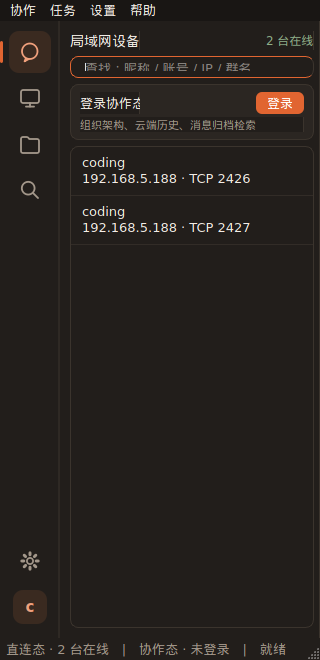
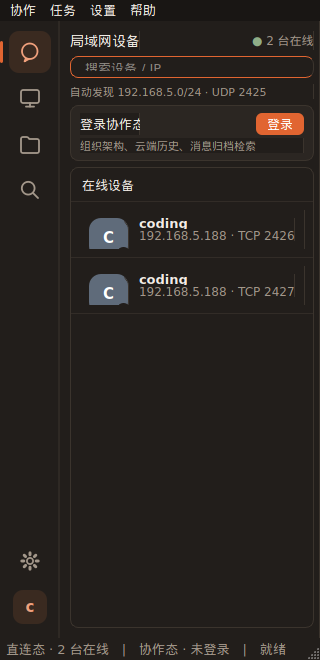
ui: align direct device list with desktop-direct prototype

diff --git a/client/app/main_window.cpp b/client/app/main_window.cpp
@@ -33,6 +33,7 @@
 #include <QLabel>
 #include <QMenuBar>
 #include <QMenu>
+#include <QNetworkInterface>
 
 #include "file_assistant.hpp"
 #include "emoji_pack_dialog.hpp"
@@ -914,9 +915,29 @@ void MainWindow::build_ui() {
   side_head->addWidget(new_chat_btn_);
 
   search_box_ = new QLineEdit(side);
-  search_box_->setPlaceholderText(
-      QStringLiteral("查找：昵称 / 账号 / IP / 群名"));
+  search_box_->setPlaceholderText(QStringLiteral("搜索设备 / IP"));
   search_box_->setClearButtonEnabled(true);
+
+  // 发现口径注脚（原型 side-head：自动发现本网段 x.x.x.0/24 · UDP 2425）：
+  // 子网按本机首个非环回 IPv4 推 /24；取不到地址时退「本网段」不编数。
+  {
+    QString subnet = QStringLiteral("本网段");
+    for (const QNetworkInterface& ni : QNetworkInterface::allInterfaces()) {
+      if (ni.flags() & QNetworkInterface::IsLoopBack) continue;
+      for (const QNetworkAddressEntry& e : ni.addressEntries()) {
+        const QHostAddress a = e.ip();
+        if (a.protocol() != QAbstractSocket::IPv4Protocol) continue;
+        const quint32 v = a.toIPv4Address();
+        subnet = QHostAddress(v & 0xFFFFFF00u).toString() + QStringLiteral("/24");
+        break;
+      }
+      if (subnet != QStringLiteral("本网段")) break;
+    }
+    disc_hint_ = new QLabel(
+        QStringLiteral("自动发现 %1 · UDP %2")
+            .arg(subnet, QString::number(kDiscoveryPort)),
+        side);
+  }
 
   device_list_ = new QListWidget(side);
   device_list_->setObjectName(QStringLiteral("device_list"));
@@ -954,6 +975,7 @@ void MainWindow::build_ui() {
 
   side_layout->addLayout(side_head);
   side_layout->addWidget(search_box_);
+  side_layout->addWidget(disc_hint_);
   side_layout->addWidget(collab_promo_);
   side_layout->addWidget(device_list_, 1);
   side_layout->insertWidget(0, brand_row_);
@@ -4364,8 +4386,9 @@ void MainWindow::update_side_head() {
   if (search_box_) {
     search_box_->setPlaceholderText(
         collab ? QStringLiteral("搜索消息 / 联系人 / 群聊")
-               : QStringLiteral("查找：昵称 / 账号 / IP / 群名"));
+               : QStringLiteral("搜索设备 / IP"));
   }
+  if (disc_hint_) disc_hint_->setVisible(!collab);
   if (device_count_) device_count_->setVisible(!collab);
   if (collab_promo_) collab_promo_->setVisible(!collab);
   if (new_chat_btn_) new_chat_btn_->setVisible(collab);
@@ -4389,7 +4412,24 @@ void MainWindow::refresh_devices() {
   device_list_->blockSignals(true);
   device_list_->clear();
   const auto peers = direct_engine_.peers();
-  for (const Peer& p : peers) {
+  // 原型直连列表（desktop-direct.html）：「在线设备」一组会话行（头像/在
+  // 线点/姓名·设备/时间/末条预览/未读胶囊）。离线对端由发现服务超时即摘，
+  // 无离线留存表——「离线设备」分区不渲染（台账近似项）。
+  if (!peers.isEmpty()) {
+    auto* header = new QListWidgetItem(QStringLiteral("在线设备"));
+    header->setFlags(Qt::NoItemFlags);
+    device_list_->addItem(header);
+  }
+  QList<QPair<qint64, const Peer*>> order;
+  for (const Peer& p : peers) order.push_back({fav_last_ms_(QString::fromStdString(p.device_id)), &p});
+  std::sort(order.begin(), order.end(),
+            [](const QPair<qint64, const Peer*>& a,
+               const QPair<qint64, const Peer*>& b) {
+              if (a.first != b.first) return a.first > b.first;
+              return a.second->name < b.second->name;
+            });
+  for (const auto& kv : order) {
+    const Peer& p = *kv.second;
     auto* item = new QListWidgetItem(device_list_);
     const QString id = QString::fromStdString(p.device_id);
     const QString name =
@@ -4401,28 +4441,47 @@ void MainWindow::refresh_devices() {
             ? QStringLiteral("飞秋 · UDP %1").arg(p.address.toString())
             : QStringLiteral("%1 · TCP %2")
                   .arg(p.address.toString(), QString::number(p.tcp_port));
-    // T4.2：对端登录账号入列表行（仅作显示；空=未登录）
-    const QString acct = p.account.empty()
-                             ? QString()
-                             : QStringLiteral(" · 协作账号 %1")
-                                   .arg(QString::fromStdString(p.account));
-    // 未读角标（原型行 n-count 的文本位；行级富文本委托另批）
-    const int unread = unread_counts_.value(id);
-    // 「盯」已读提醒触发的会话高亮（todo「盯」单）：◉ 前缀复用未读
-    // 角标位（同一行渲染路径；打开该会话即清）
-    const QString watch_hi =
-        watch_reminded_peers_.contains(id) ? QStringLiteral("◉ ") : QString();
-    item->setText(
-        watch_hi +
-        (unread > 0 ? QStringLiteral("(%1) ").arg(unread) : QString()) +
-        QStringLiteral("%1\n%2%3").arg(name, meta, acct));
+    // T4.2：对端协作账号（仅作显示；空=未登录）——原型行「人名 · 设备名」，
+    // 应用侧账号 id 即人名位
+    const QString account = QString::fromStdString(p.account);
+    const QString display =
+        account.isEmpty() ? name
+                          : QStringLiteral("%1 · %2").arg(account, name);
+    // 末条预览（原型 .r-sub）：本地库最近一条（撤回如实标）；文件传输
+    // 不落库，无历史走元信息行兜底（IP · 口）
+    QString preview;
+    const auto hist = direct_engine_.history(id, 1);
+    if (!hist.isEmpty()) {
+      preview = hist.last().recalled
+                    ? QStringLiteral("撤回了一条消息")
+                    : QString::fromStdString(hist.last().text);
+    } else {
+      preview = meta;
+    }
+    // 「盯」已读提醒高亮（原文本行 ◉ 前缀位；打开该会话即清）
+    const QString shown =
+        (watch_reminded_peers_.contains(id) ? QStringLiteral("◉ ")
+                                            : QString()) +
+        display;
+    // 列表内对端都在发现超时窗内＝在线（presence=1）；头像首字取人名位
+    QWidget* row = make_session_row(
+        tk(), account.isEmpty() ? name : account, 1, shown,
+        fmt_last_contact(fav_last_ms_(id)), preview,
+        unread_counts_.value(id));
+    item->setSizeHint(row->sizeHint());
+    device_list_->setItemWidget(item, row);
+    // 元信息（IP/端口/协作账号）退悬浮——行面让位原型会话行
+    item->setToolTip(QStringLiteral("%1\n%2%3").arg(
+        display, meta,
+        account.isEmpty()
+            ? QString()
+            : QStringLiteral("\n协作账号 %1").arg(account)));
     item->setData(Qt::UserRole, id);
     item->setData(Qt::UserRole + 1, QStringLiteral("direct"));
     // 需求批⑨查找：可检索字段＝昵称/设备 id/IP/协作账号（\n 分行，整行比对
     // ＝精确、子串＝模糊，两态都能命中）
     item->setData(Qt::UserRole + 6,
-                  QStringList{name, id, p.address.toString(),
-                             QString::fromStdString(p.account)}
+                  QStringList{name, id, p.address.toString(), account}
                       .join(QLatin1Char('\n')));
   }
 
@@ -4570,9 +4629,13 @@ void MainWindow::refresh_devices() {
     }
   }
   device_list_->blockSignals(false);
-  device_count_->setText(peers.isEmpty()
-                             ? QStringLiteral("未发现设备")
-                             : QStringLiteral("%1 台在线").arg(peers.size()));
+  // 原型 device-count：success 绿点＋muted 计数；空表如实「未发现设备」
+  device_count_->setText(
+      peers.isEmpty()
+          ? QStringLiteral("未发现设备")
+          : QStringLiteral("<span style=\"color:%1;\">●</span> %2 台在线")
+                .arg(tk().success.name())
+                .arg(peers.size()));
 
   // 当前会话设备离线 → 保留视图但提示；列表选中态恢复
   if (!selected.isEmpty()) {
@@ -5235,8 +5298,13 @@ void MainWindow::apply_theme_styles() {
             .arg(t.text.name()));
   }
   if (device_count_) {
+    // 原型 device-count：绿点 + text-3 计数（点走富文本 success 跨度）
     device_count_->setStyleSheet(
-        QStringLiteral("color:%1; font-size:12px;").arg(t.success.name()));
+        QStringLiteral("color:%1; font-size:12px;").arg(t.text_muted.name()));
+  }
+  if (disc_hint_) {
+    disc_hint_->setStyleSheet(
+        QStringLiteral("color:%1; font-size:11px;").arg(t.text_muted.name()));
   }
   if (new_chat_btn_) {
     // 原型 .icon-btn.brand（brand-soft 底 brand-deep 字）＋悬停品牌底

diff --git a/client/tests/test_mode_switch.cpp b/client/tests/test_mode_switch.cpp
@@ -265,9 +265,11 @@ int main(int argc, char** argv) {
       // —— 需求批⑨ 查找：昵称/账号(设备 id)/IP 多字段，模糊+精确 ——
       // 模糊＝子串（dev- 前缀全命中）；精确＝整 id（dev-A2 只剩一台）；
       // 不存在串全隐；清空恢复（列表里 dev-A2/dev-B2 来自双引擎宣告）
+      // （占位文案 2026-10-30 对齐原型 desktop-direct.html 改「搜索设备 / IP」，
+      //  检索字段不变）
       QLineEdit* search = nullptr;
       for (QLineEdit* e : window.findChildren<QLineEdit*>()) {
-        if (e->placeholderText().contains(QStringLiteral("查找："))) {
+        if (e->placeholderText().contains(QStringLiteral("搜索设备"))) {
           search = e;
           break;
         }

diff --git a/client/app/main_window.hpp b/client/app/main_window.hpp
@@ -556,6 +556,7 @@ private:
   QPointer<MessageSearchDialog> message_search_; // 聊天记录模糊搜索窗（懒建）
 
   QLabel* device_count_{nullptr};
+  QLabel* disc_hint_{nullptr}; // 直连态发现口径行（原型 side-head 11px 注脚）
   QPushButton* new_chat_btn_{nullptr}; // 发起单聊 +（原型 side-head 品牌钮，协作态可见）
   RailNav* rail_{nullptr};        // 原型 rail 面：最左图标导航栏
   QMenu* opt_menu_{nullptr};      // 「设置」菜单（rail 齿轮弹同源菜单）
